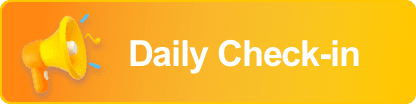
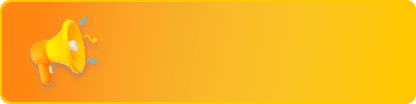
ky页面一些调整

Changed region(s): [[0.3125, 0.3462, 0.875, 0.6923], [0.0312, 0.1154, 0.25, 0.8942], [0.0, 0.8654, 1.0, 1.0]]

diff --git a/src/_skin030/views/navigation/widget/daily_checkin/DailyCheckin.vue b/src/_skin030/views/navigation/widget/daily_checkin/DailyCheckin.vue
@@ -1,0 +1,36 @@
+<template>
+    <v-sheet
+        v-if="!myProxy.isminiMenu"
+        @click="goCheckin()"
+        color="transparent"
+        width="100%"
+        min-height="54px"
+        class="d-flex justify-center align-center rounded10 mt-2 cursor-pointer"
+        :style="`background-image: url(${checkinImg});
+        background-position: center bottom 0px;
+        background-size: contain;
+        background-repeat: no-repeat;`"
+    >
+        <div class="font-weight-bold text-20">{{ LangUtil("每日签到") }}</div>
+    </v-sheet>
+</template>
+
+<script lang="ts">
+import { Component } from "vue-property-decorator";
+import AbstractView from "@/core/abstract/AbstractView";
+import LangUtil from "@/core/global/LangUtil";
+import getProxy from "@/core/global/getProxy";
+import NavigationProxy from "@/_skin030/views/navigation/NavigationProxy";
+
+@Component
+export default class DailyCheckin extends AbstractView {
+    myProxy: NavigationProxy = getProxy(NavigationProxy);
+    LangUtil = LangUtil;
+    get checkinImg() {
+        return require("@/_skin030/assets/pagehome/daily_checkin.png");
+    }
+    goCheckin() {
+        this.$emit("goCheckin");
+    }
+}
+</script>

diff --git a/src/_skin030/views/page_activity/views/PageActivity.ts b/src/_skin030/views/page_activity/views/PageActivity.ts
@@ -8,6 +8,7 @@ import GameConfig from "@/core/config/GameConfig";
 import SkinVariable from "@/_skin030/core/SkinVariable";
 import ModulesHelper from "@/_skin030/core/ModulesHelper";
 import { changeDateShow } from "@/core/global/Functions";
+import { getMsg } from "./msg";
 
 @Component
 export default class PageActivity extends AbstractView {
@@ -18,6 +19,7 @@ export default class PageActivity extends AbstractView {
     pageData = this.myProxy.pageData;
     categoryData = this.myProxy.pageData.categoryData;
     core = core;
+    msg = getMsg(LangUtil);
 
     get promotion_reward_model_id() {
         return (
@@ -132,6 +134,10 @@ export default class PageActivity extends AbstractView {
     }
     onClickGetIt(item: any) {
         console.log("点击 立即获取", item);
+        if (item.model_type == 13) {
+            PanelUtil.openpanel_spin_lottery();
+            return;
+        }
         PanelUtil.openpanel_recharge();
     }
     onClickRules(item: any) {

diff --git a/src/_skin030/views/page_activity/views/PageActivity.vue.html b/src/_skin030/views/page_activity/views/PageActivity.vue.html
@@ -118,7 +118,7 @@
                                                         height="30"
                                                         min_width="100"
                                                         @click.native.stop="onClickGetIt(item)"
-                                                        >{{LangUtil("立即获取")}}</btn-yellow
+                                                        >{{item.model_type == 13 ? msg.goNow : msg.depositNow}}</btn-yellow
                                                     >
                                                     <btn-yellow
                                                         class="ml-3 text-14"

diff --git a/src/_skin030/views/page_home/widget/game_enter_item/GameEnterItem.ts b/src/_skin030/views/page_home/widget/game_enter_item/GameEnterItem.ts
@@ -60,6 +60,10 @@ export default class GameEnterItem extends AbstractView {
 
     onBtnClick() {
         console.log("收到点击", this.item);
+        if (this.item.category == 251) {
+            PanelUtil.openpanel_gamelist(0, 251);
+            return;
+        }
         if (this.item.category == 16) {
             PanelUtil.openpage_casino_lobby();
         } else if (this.item.category == 64) {
@@ -67,7 +71,6 @@ export default class GameEnterItem extends AbstractView {
             PanelUtil.openpage_soccer(this.getCurMenuData[0]);
         } else {
             PanelUtil.openpanel_gamelist(this.item.category);
-
         }
     }
 }

diff --git a/src/_skin030/views/page_home/views/PageHome.vue.html b/src/_skin030/views/page_home/views/PageHome.vue.html
@@ -26,7 +26,7 @@
                                     <svg-icon class="ml-1" :class="!$mobile ? 'text-24' : 'text-18'" icon="ky_right"></svg-icon>
                                 </div>
 
-                                <span>{{vip_info.vipProgress }}%</span>
+                                <span>{{parseFloat(vip_info.vipProgress.toFixed(2))}}%</span>
                             </v-sheet>
                             <v-sheet width="100%" color="transparent" class="mt-2">
                                 <v-progress-linear

diff --git a/src/_skin030/views/page_mine/views/PageMine.vue.html b/src/_skin030/views/page_mine/views/PageMine.vue.html
@@ -23,7 +23,7 @@
                                     <svg-icon class="ml-1" :class="!$mobile ? 'text-24' : 'text-18'" icon="ky_right"></svg-icon>
                                 </div>
 
-                                <span>{{pageData.vipProgress }}%</span>
+                                <span>{{parseFloat(pageData.vipProgress.toFixed(2))}}%</span>
                             </v-sheet>
                             <v-sheet width="100%" color="transparent" class="mt-2">
                                 <v-progress-linear

diff --git a/src/_skin030/views/navigation/widget/navigation_home/NavigationHome.vue.html b/src/_skin030/views/navigation/widget/navigation_home/NavigationHome.vue.html
@@ -51,8 +51,5 @@
             @onChangePanel="onChangePanel"
         ></NavigationItem>
     </v-sheet>
-
-    <v-sheet color="transparent" width="100%" class="d-flex flex-column justify-center rounded10 mt-2 cursor-pointer">
-        <v-img src="~@/_skin030/assets/pagehome/daily_checkin.png" width="100%" @click="goCategory({ id: 7 })"></v-img>
-    </v-sheet>
+    <daily-checkin @goCheckin="() => goCategory({ id: 7 })"></daily-checkin>
 </v-sheet>

diff --git a/src/_skin030/views/navigation/widget/navigation_casino/NavigationCasino.vue.html b/src/_skin030/views/navigation/widget/navigation_casino/NavigationCasino.vue.html
@@ -70,7 +70,5 @@
             @onChangePanel="onChangePanel"
         ></NavigationItem>
     </v-sheet>
-    <v-sheet color="transparent" width="100%" class="d-flex flex-column justify-center rounded10 mt-2 cursor-pointer">
-        <v-img src="~@/_skin030/assets/pagehome/daily_checkin.png" width="100%" @click="goCategory({ id: 7 })"></v-img>
-    </v-sheet>
+    <daily-checkin @goCheckin="() => goCategory({ id: 7 })"></daily-checkin>
 </v-sheet>

diff --git a/src/_skin030/views/page_home/views/PageHome.ts b/src/_skin030/views/page_home/views/PageHome.ts
@@ -174,7 +174,8 @@ export default class PageHome extends AbstractView {
             btn_name: LangUtil("进入体育"),
         },
         {
-            category: 2,
+            // 2023.12.22修改之前是2，打开cards，修改之后改成打开一个vendor
+            category: 251,
             icon: "ky_game_hot",
             title: LangUtil("首页棋牌"),
             bg_name: "game_anime",

diff --git a/src/_skin030/views/navigation/widget/navigation_home/NavigationHome.vue b/src/_skin030/views/navigation/widget/navigation_home/NavigationHome.vue
@@ -3,11 +3,13 @@
 
 <script lang="ts">
 import Component from "vue-class-component";
+import DailyCheckin from "../daily_checkin/DailyCheckin.vue";
 import NavigationHome from "./NavigationHome";
 import NavigationItem from "../navigation_item/NavigationItem.vue";
 @Component({
     components: {
         NavigationItem,
+        DailyCheckin,
     },
 })
 export default class extends NavigationHome {}

diff --git a/src/_skin030/views/navigation/widget/navigation_casino/NavigationCasino.vue b/src/_skin030/views/navigation/widget/navigation_casino/NavigationCasino.vue
@@ -5,9 +5,11 @@
 import Component from "vue-class-component";
 import NavigationCasino from "./NavigationCasino";
 import NavigationItem from "../navigation_item/NavigationItem.vue";
+import DailyCheckin from "../daily_checkin/DailyCheckin.vue";
 @Component({
     components: {
         NavigationItem,
+        DailyCheckin,
     },
 })
 export default class extends NavigationCasino {}

diff --git a/src/_skin030/views/page_activity/views/msg.ts b/src/_skin030/views/page_activity/views/msg.ts
@@ -1,0 +1,10 @@
+const msg = {
+    depositNow: "立即获取",
+    goNow: "立即前往",
+};
+
+export const getMsg = (LangUtil: any) => {
+    const entries = Object.entries(msg).map(([a, b]) => [a, LangUtil(b)]);
+    const newMsg = Object.fromEntries(entries);
+    return newMsg as typeof msg;
+};
